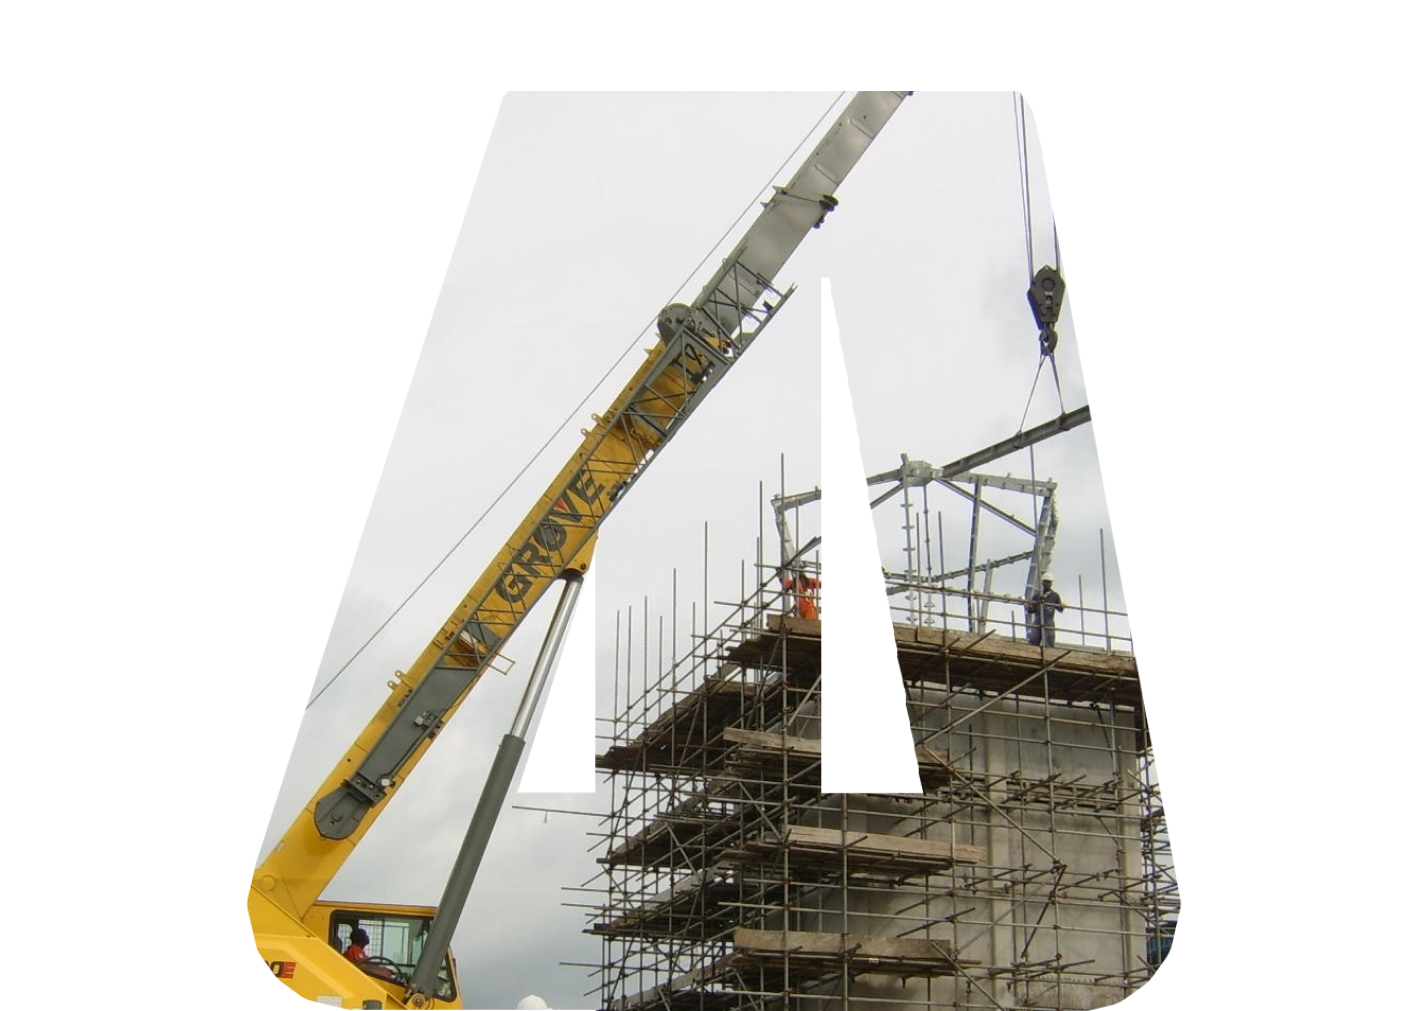
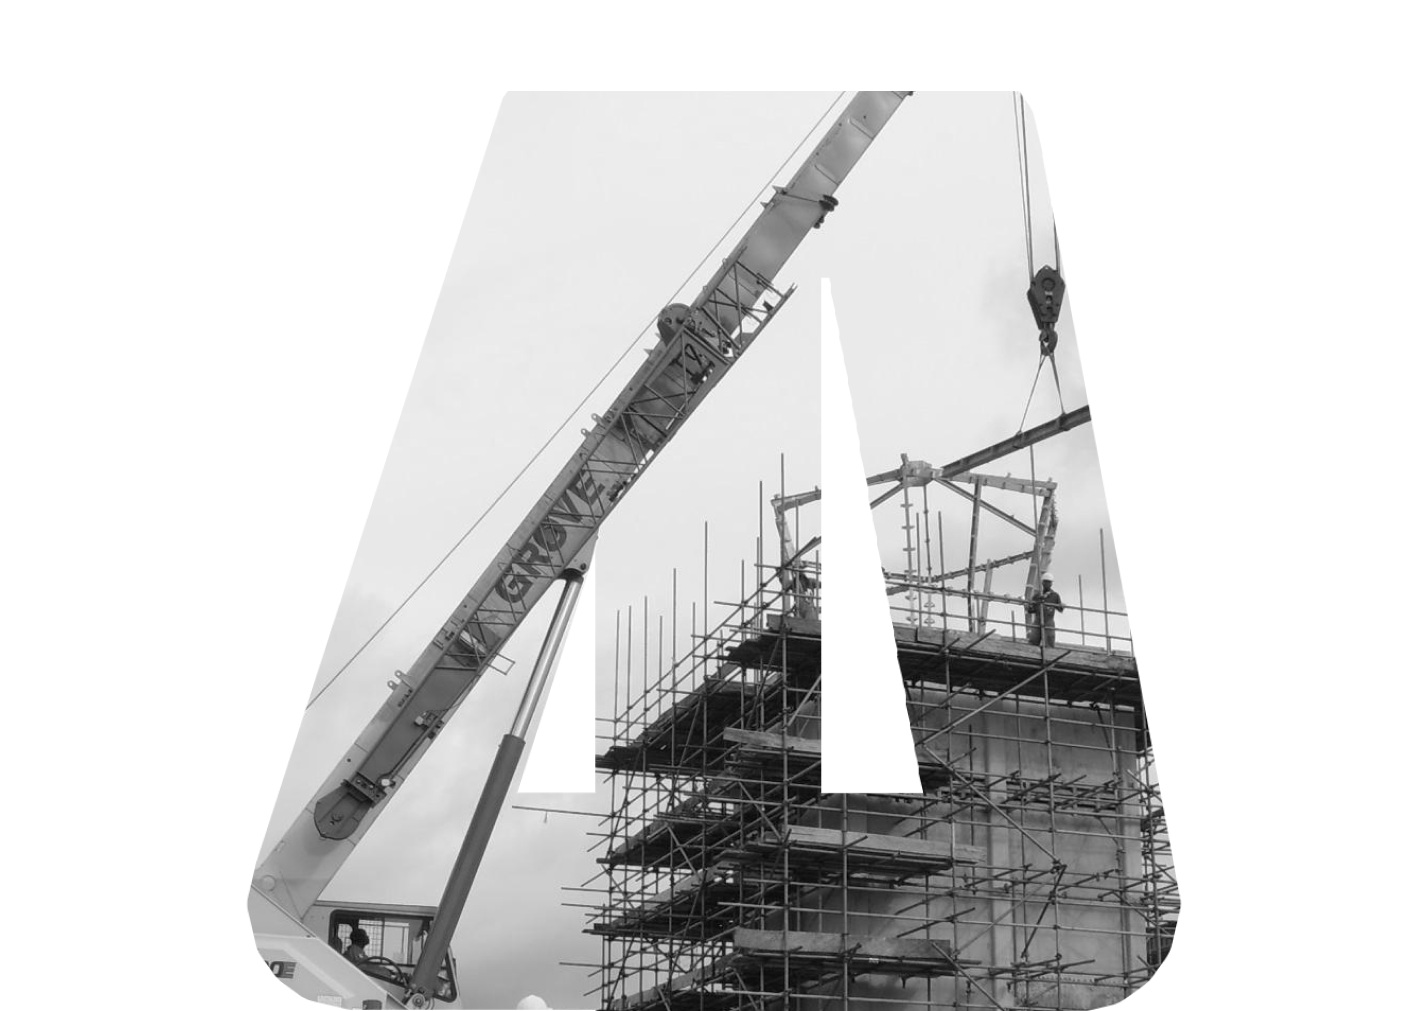
update

diff --git a/src/App.jsx b/src/App.jsx
@@ -4,34 +4,34 @@ import Service from "./components/service";
 function App() {
   return (
     <>
-      <header>
+      <header className="relative">
         <nav className="flex justify-start items-center absolute top-0 left-[7%] w-full pt-[50px] z-10">
           <a href="/">
             <img src="/images/intecon-logo.png" alt="intecon logo" />
           </a>
           <ul className="navlinks flex justify-start items-center gap-6">
             <li className="uppercase ">
-              <a href="/" className="no-underline text-white text-[14px]">
+              <a href="/" className="no-underline text-white text-[14px] font-inter hover:font-bold">
                 Home
               </a>
             </li>
             <li className="uppercase  ">
-              <a href="/" className="no-underline text-white text-[14px]">
+              <a href="/" className="no-underline text-white text-[14px] font-inter hover:font-bold">
                 About
               </a>
             </li>
             <li className="uppercase  ">
-              <a href="/" className="no-underline text-white text-[14px]">
+              <a href="/" className="no-underline text-white text-[14px] font-inter hover:font-bold">
                 Projects
               </a>
             </li>
             <li className="uppercase  ">
-              <a href="/" className="no-underline text-white text-[14px]">
+              <a href="/" className="no-underline text-white text-[14px] font-inter hover:font-bold">
                 Services
               </a>
             </li>
             <li className="uppercase  ">
-              <a href="/" className="no-underline text-white text-[14px]">
+              <a href="/" className="no-underline text-white text-[14px] font-inter hover:font-bold">
                 Contact
               </a>
             </li>
@@ -73,7 +73,7 @@ function App() {
                 Contact Us
               </span>
               <div className="phone-box absolute bottom-[10px] right-[10px] grid place-items-center bg-white rounded-full p-[5px]">
-                <img src="/images/Phone.svg" alt="phone icon" />
+                <img src="/images/phone.svg" alt="phone icon" />
               </div>
             </a>
           </div>
@@ -130,7 +130,7 @@ function App() {
 
           <div className="profile grid grid-cols-2 relative z-10 w-full bg-white py-[84px] px-[7%] gap-x-[5%]">
             <div className="image-box flex flex-col justify-start items-center">
-              <div className="image bg-border rounded-[10px] max-w-[505px]">
+              <div className="profile-image bg-border rounded-[10px] max-w-[505px]">
                 <img
                   src="/images/engr-ajibola.png"
                   alt="Intecon Engineer Ajibola's Profile Picture"
@@ -176,7 +176,7 @@ function App() {
           <div className="blue-box w-[34px] h-[142px] bg-edgeblue absolute bottom-6 right-0 z-20"></div>
         </section>
 
-        <section className="projects relative pt-[184px] pb-[139px] px-[230px] overflow-hidden">
+        <section className="projects relative pt-[184px] pb-[139px] px-[230px] overflow-hidden h-[2100px]">
           <div className="blue-box w-[34px] h-[142px] bg-edgeblue absolute top-[145px] left-0"></div>
           <h3 className="text-[40px] tracking-[14.8px] font-bold font-inter uppercase">
             Projects
@@ -184,36 +184,39 @@ function App() {
           <img
             src="/images/ajayi-crowther-library.png"
             alt="ajayi crowther library"
-            className="first-project"
+            className="first-project absolute top-[145px] right-[16%]"
           />
           <img
             src="/images/bowen-library.png"
             alt="bowen library"
-            className="second-project"
+            className="second-project absolute top-[470px] left-[16%]"
           />
           <img
             src="/images/natural-science-building.png"
             alt="Ajayi Crowther natural science building"
-            className="third-project"
+            className="third-project absolute top-[818px] right-[17%]"
           />
           <img
             src="/images/heritage-mall.png"
             alt="Heritage Mall Dugbe, Ibadan, Oyo State Nigeria"
-            className="fourth-project"
+            className="fourth-project absolute top-[818px] left-[16%]"
           />
           <img
             src="/images/engr-survey.png"
             alt="Engineering Survey"
-            className="fifth-project"
+            className="fifth-project absolute top-[1377px] left-[16%]"
           />
           <img
             src="/images/eket-control-tower.png"
             alt="Eket Control Tower"
-            className="sixth-project"
+            className="sixth-project absolute top-[1426px] right-[16%]"
           />
-          <button className="text-[24px] block font-normal font-jost bg-darkblue py-6 px-[42px] -tracking-[0.96px] rounded text-white mx-auto ">
+          <button className="text-[24px] block font-normal font-jost bg-darkblue py-6 px-[42px] -tracking-[0.96px] rounded text-white mx-auto mt-auto">
             See More Projects
           </button>
+
+          <img src="/images/intecon-thick.png" alt="intecon logo" className="w-full h-full absolute -left-[784px] -bottom[365px] -z-[1]"/>
+          <img src="/images/intecon-thick.png" alt="intecon logo"  className="w-full h-full absolute -right-[498px] -bottom-[1093px] -z-[1]"/>
         </section>
 
         <section className=" services relative pt-[140px] pb-[177px] px-[11%] bg-edgeblue overflow-hidden">
@@ -243,12 +246,12 @@ function App() {
           />
         </section>
 
-        <section className="clients py-[143px]">
+        <section className="clients py-[58px]">
           <h3 className="text-[40px] tracking-[14.8px] font-bold font-inter uppercase text-center">
-            Our Client
+            Our Clients
           </h3>
           <div className="marquee-container">
-            <div className="marquee">
+            <div className="marquee flex flex-row justify-between items-stretch gap-5 py-[88px] px-[100px] overflow-scroll ">
               <span className="client">
                 <img
                   src="/images/coat-of-arms.png"
@@ -275,8 +278,38 @@ function App() {
               </span>
               <span className="client">
                 <img
-                  src="/images/coat-of-arms.png"
-                  alt="Nigerian coat of arms no background"
+                  src="/images/unibadan-logo.png"
+                  alt="University of Ibadan logo"
+                />
+              </span>
+              <span className="client">
+                <img
+                  src="/images/oodua.png"
+                  alt="O'dua Investment company Limited"
+                />
+              </span>
+              <span className="client">
+                <img
+                  src="/images/updc.png"
+                  alt="updc logo"
+                />
+              </span>
+              <span className="client">
+                <img
+                  src="/images/ajayi-crowther-logo.png"
+                  alt="Ajayi Crowther University Logo"
+                />
+              </span>
+              <span className="client">
+                <img
+                  src="/images/faan.png"
+                  alt="FAAN Logo"
+                />
+              </span>
+              <span className="client">
+                <img
+                  src="/images/unilever.png"
+                  alt="Unilever Logo"
                 />
               </span>
             </div>

diff --git a/src/index.css b/src/index.css
@@ -11,13 +11,13 @@
 body{
   width: 100%;
   height: 100vh;
-  /* overflow-x: hidden; */
+  overflow-x: hidden;
 }
 
 #root{
   width: 100%;
   height: 100%;
- 
+  overflow-x: hidden;
 }
 
 .circle{
@@ -46,6 +46,28 @@ body{
   height: 30px;
   background-color: #fff;
   border-radius: 50%;
-  box-shadow: -12px 12px 0 #D8DFE5;
-  
+  box-shadow: -12px 12px 0 #D8DFE5; 
+}
+
+.marquee::-webkit-scrollbar{
+  display: none;
+}
+
+.client{
+  width: 231px;
+  height: 231px;
+}
+
+.profile-image img{
+  transition: filter 0.5s ease;
+  filter: grayscale(100%)
+}
+
+.profile-image:hover{
+  cursor: pointer;
+}
+
+ 
+.profile-image:hover img{
+  filter: unset;
 }
